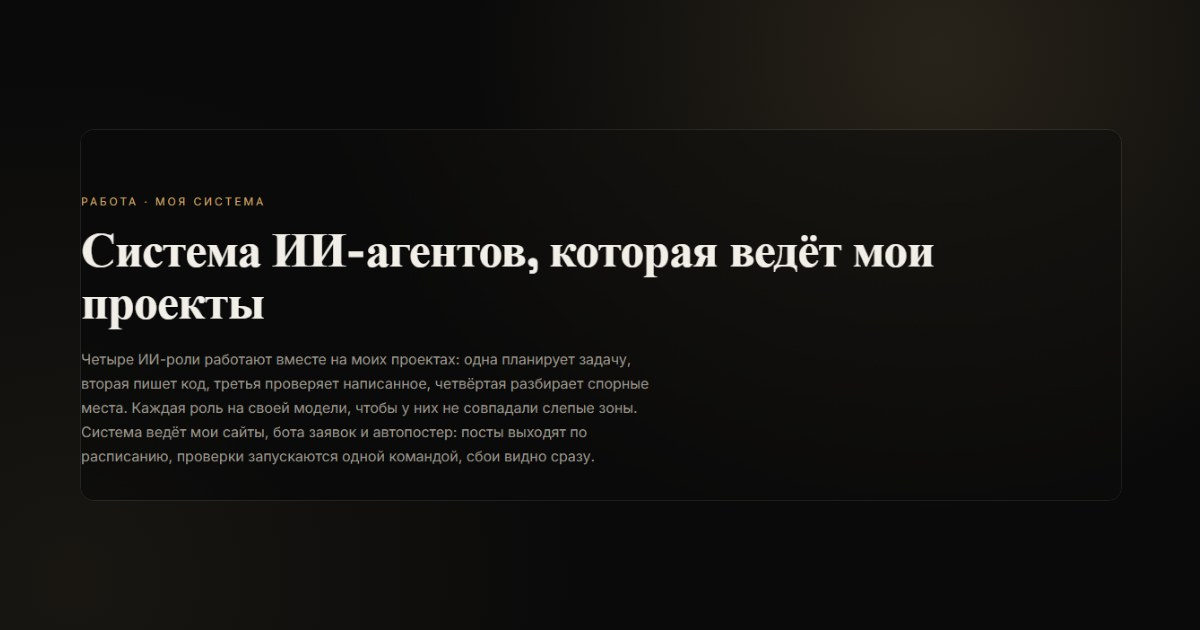
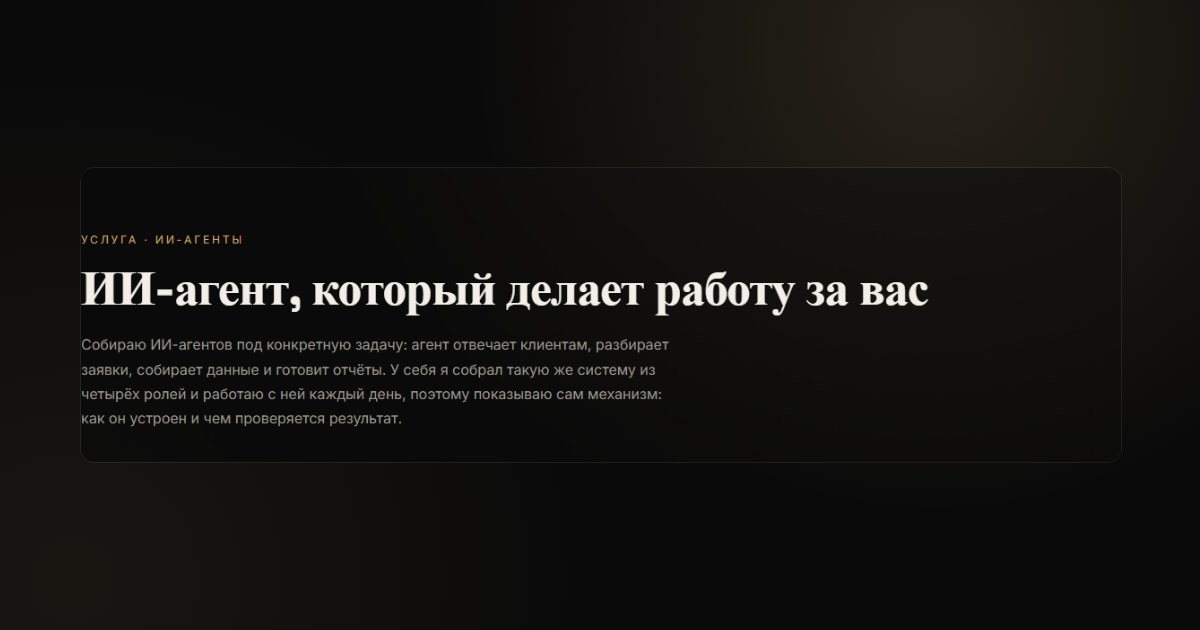
Кейс ИИ-агентов: разворот на услугу, убран клиентский проект из цифр

Changed region(s): [[0.0617, 0.3619, 0.8017, 0.754], [0.0617, 0.3016, 0.2158, 0.3317]]

diff --git a/ai-agent/index.html b/ai-agent/index.html
@@ -3,22 +3,22 @@
 <head>
 <meta charset="UTF-8" />
 <meta name="viewport" content="width=device-width, initial-scale=1.0" />
-<title>Система ИИ-агентов, которая ведёт мои проекты · Detroll</title>
-<meta name="description" content="Своя система из четырёх ИИ-ролей: одна планирует, вторая пишет код, третья проверяет, четвёртая советует. Показываю, как она устроена и что уже делает." />
+<title>ИИ-агент под вашу задачу: как он устроен · Detroll</title>
+<meta name="description" content="Собираю ИИ-агентов под конкретную задачу: отвечают клиентам, разбирают заявки, собирают данные, готовят отчёты. Показываю, как устроен агент и чем проверяется результат." />
 <meta name="theme-color" content="#0a0a0a" />
 <link rel="canonical" href="https://detroll1.github.io/ai-agent/" />
 <meta property="og:type" content="website" />
 <meta property="og:site_name" content="Detroll" />
 <meta property="og:locale" content="ru_RU" />
 <meta property="og:url" content="https://detroll1.github.io/ai-agent/" />
-<meta property="og:title" content="Система ИИ-агентов, которая ведёт мои проекты" />
-<meta property="og:description" content="Своя система из четырёх ИИ-ролей: одна планирует, вторая пишет код, третья проверяет, четвёртая советует. Показываю, как она устроена и что уже делает." />
+<meta property="og:title" content="ИИ-агент под вашу задачу: как он устроен" />
+<meta property="og:description" content="Собираю ИИ-агентов под конкретную задачу: отвечают клиентам, разбирают заявки, собирают данные, готовят отчёты. Показываю, как устроен агент и чем проверяется результат." />
 <meta property="og:image" content="https://detroll1.github.io/ai-agent/og-1200x630.jpg" />
 <meta property="og:image:width" content="1200" />
 <meta property="og:image:height" content="630" />
 <meta name="twitter:card" content="summary_large_image" />
-<meta name="twitter:title" content="Система ИИ-агентов, которая ведёт мои проекты" />
-<meta name="twitter:description" content="Своя система из четырёх ИИ-ролей: одна планирует, вторая пишет код, третья проверяет, четвёртая советует. Показываю, как она устроена и что уже делает." />
+<meta name="twitter:title" content="ИИ-агент под вашу задачу: как он устроен" />
+<meta name="twitter:description" content="Собираю ИИ-агентов под конкретную задачу: отвечают клиентам, разбирают заявки, собирают данные, готовят отчёты. Показываю, как устроен агент и чем проверяется результат." />
 <meta name="twitter:image" content="https://detroll1.github.io/ai-agent/og-1200x630.jpg" />
 <link rel="preconnect" href="https://fonts.googleapis.com" />
 <link rel="preconnect" href="https://fonts.gstatic.com" crossorigin />
@@ -110,9 +110,9 @@
 
 <main class="wrap">
   <section class="hero">
-    <div class="kicker">Работа · моя система</div>
-    <h1>Система ИИ-агентов, которая ведёт мои проекты</h1>
-    <p>Четыре ИИ-роли работают вместе на моих проектах: одна планирует задачу, вторая пишет код, третья проверяет написанное, четвёртая разбирает спорные места. Каждая роль на своей модели, чтобы у них не совпадали слепые зоны. Система ведёт мои сайты, бота заявок и автопостер: посты выходят по расписанию, проверки запускаются одной командой, сбои видно сразу.</p>
+    <div class="kicker">Услуга · ИИ-агенты</div>
+    <h1>ИИ-агент, который делает работу за вас</h1>
+    <p>Собираю ИИ-агентов под конкретную задачу: агент отвечает клиентам, разбирает заявки, собирает данные и готовит отчёты. У себя я собрал такую же систему из четырёх ролей и работаю с ней каждый день, поэтому показываю сам механизм: как он устроен и чем проверяется результат.</p>
   </section>
 
   <h2>Роли и модели</h2>
@@ -143,7 +143,7 @@
   <ul class="facts">
     <li>Проверка всей системы одной командой: 51 пункт, сейчас 0 сбоев.</li>
     <li>Диспетчер сам держит лимит правок и возвращает ошибку, если проверяющая роль что-то записала.</li>
-    <li>Автопостер ВК: 48 постов в сутки по расписанию, в очереди 748 фото, опубликовано 158 постов.</li>
+    <li>Роли сидят на трёх разных моделях: если одна ошибается, вторая это ловит.</li>
     <li>Сторож расхода подписки: раз в час сверяет лимиты и пишет в Telegram только у порога.</li>
   </ul>
 

diff --git a/index.html b/index.html
@@ -266,10 +266,10 @@
     </a>
 
     <a class="card" href="ai-agent/">
-      <div class="shot"><img src="assets/screens/ai-agent.png" alt="Система ИИ-агентов: проверка ролей в терминале" loading="lazy" /><span class="o">Открыть →</span></div>
+      <div class="shot"><img src="assets/screens/ai-agent.png" alt="ИИ-агент под вашу задачу: как устроена проверка ролей" loading="lazy" /><span class="o">Открыть →</span></div>
       <div class="b">
-        <h3><span class="dot"></span>Система ИИ-агентов</h3>
-        <p class="d">Своя система из четырёх ИИ-ролей: планирует, пишет код, проверяет, советует. Работает на моих проектах.</p>
+        <h3><span class="dot"></span>ИИ-агент под вашу задачу</h3>
+        <p class="d">Агент отвечает клиентам, разбирает заявки, готовит отчёты. Показываю, как он устроен и чем проверяется результат.</p>
         <span class="go">Подробнее →</span>
       </div>
     </a>
